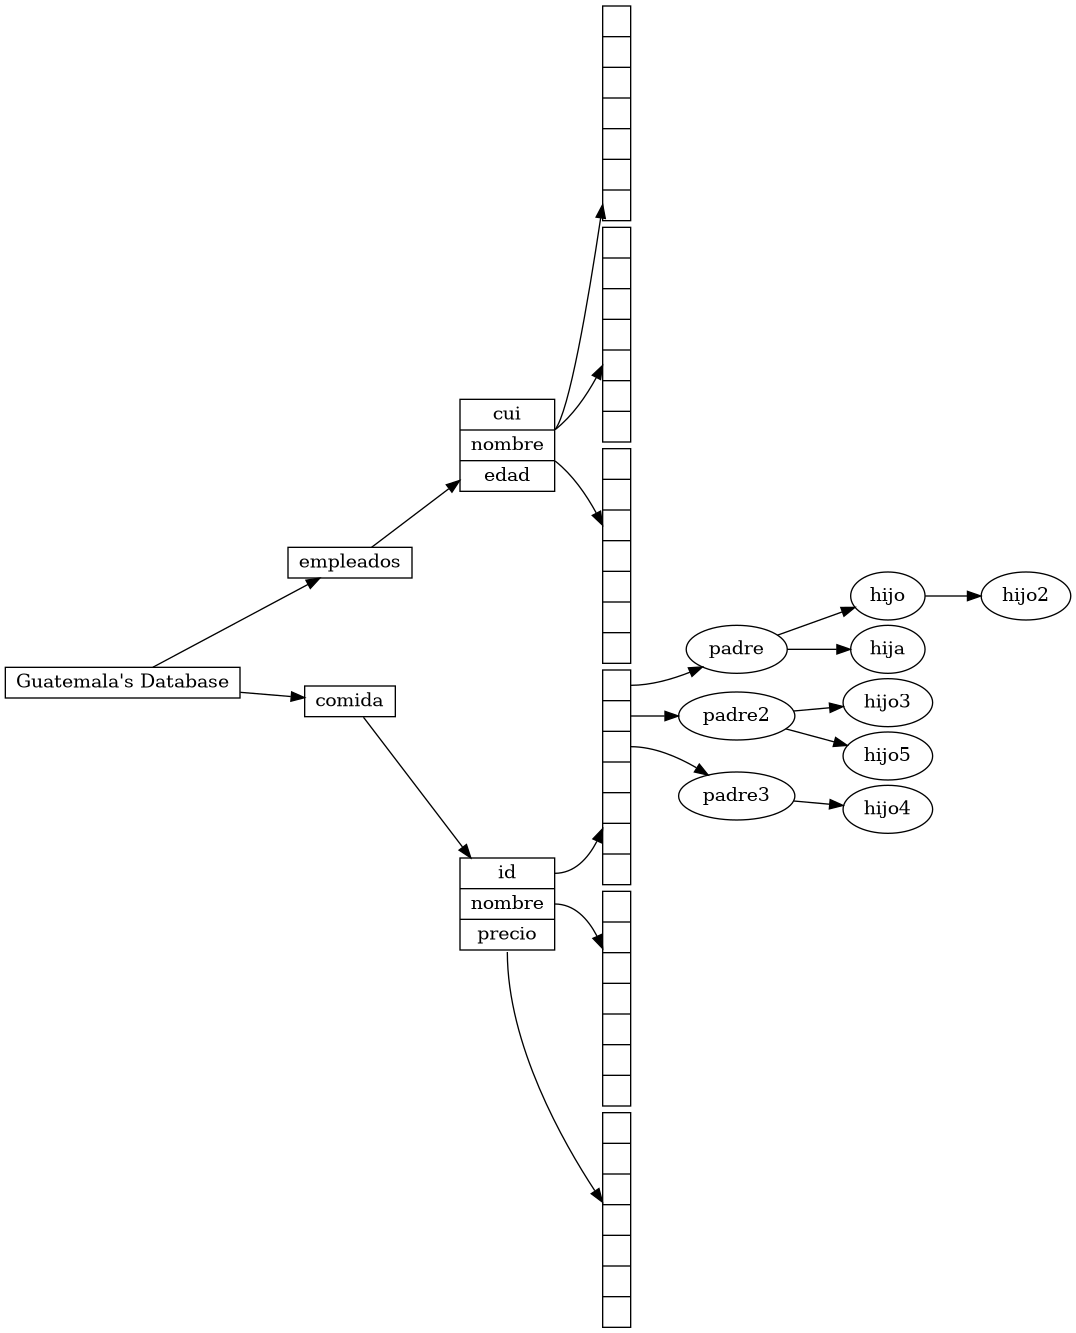
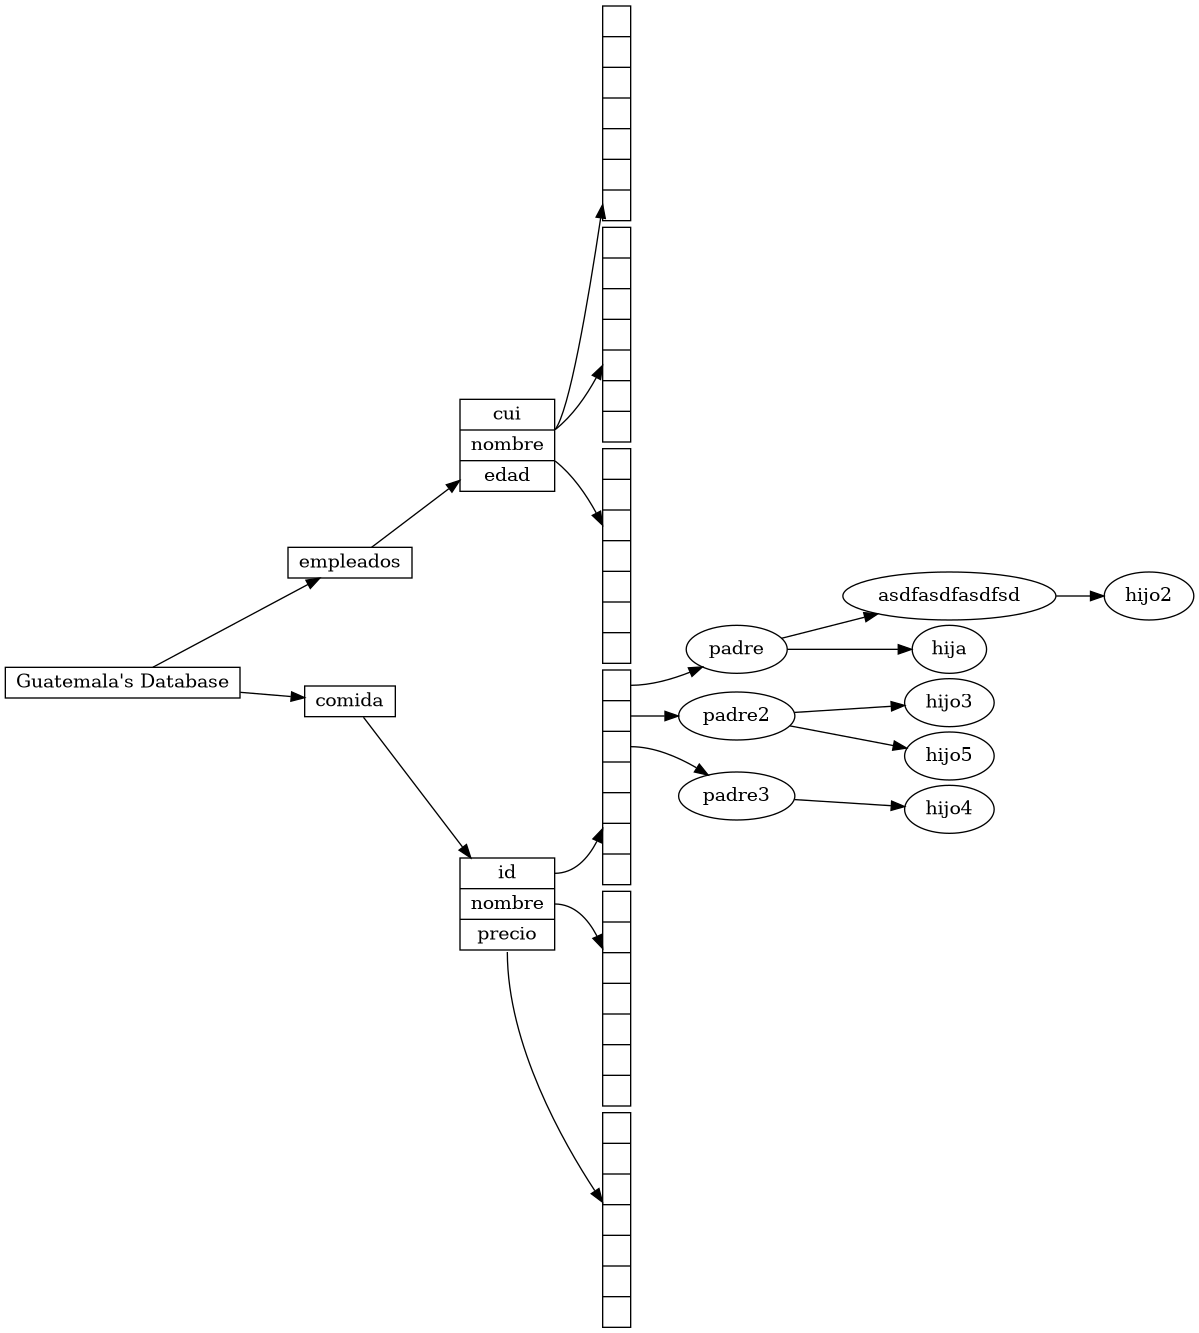
update: escrtura archivo graphviz

diff --git a/Columna.cpp b/Columna.cpp
@@ -85,8 +85,8 @@ void Columna::limpiarTodo(){
 }
 
 void Columna::limpiarListaDatos(){
-    while(listDatos && listDatos->getSig()){
-        listDatos = listDatos->getSig();
+    while(this->listDatos && this->listDatos->getSig()){
+        this->listDatos = this->listDatos->getSig();
     }
     while(listDatos){
         ListDatos *aux = this->listDatos;
@@ -209,22 +209,22 @@ void Columna::rotarRL(AVL* &arbol){
 }
 
 void Columna::cantidadDeRegistros(int &cantidad){
-    first();
-    if(this->tablaHash) tablaHash->getAVL()->cantidadDeRegistros(cantidad);
+    this->first();
+    if(this->tablaHash) this->tablaHash->getAVL()->cantidadDeRegistros(cantidad);
     while(tablaHash->getSig()){
-        tablaHash = tablaHash->getSig();
-        tablaHash->getAVL()->cantidadDeRegistros(cantidad);
+        this->tablaHash = this->tablaHash->getSig();
+        this->tablaHash->getAVL()->cantidadDeRegistros(cantidad);
     }
-    first();
+    this->first();
 }
 
 void Columna::getDatoByNoRegistro(int noRegistro, Dato &dato, bool &encontrado){
-    first();
+    this->first();
     if(this->tablaHash){
-        tablaHash->getAVL()->getDatoByNoRegistro(noRegistro, dato, encontrado);
+        this->tablaHash->getAVL()->getDatoByNoRegistro(noRegistro, dato, encontrado);
         while(tablaHash->getSig() && (!encontrado)){
-            tablaHash = tablaHash->getSig();
-            tablaHash->getAVL()->getDatoByNoRegistro(noRegistro, dato, encontrado);
+            this->tablaHash = this->tablaHash->getSig();
+            this->tablaHash->getAVL()->getDatoByNoRegistro(noRegistro, dato, encontrado);
         }
     }else{
         cout<<"No se enconro el dato en la tabla hash."<<endl;
@@ -267,7 +267,7 @@ void Columna::first(){
 }
 
 AVL*& Columna::getAt(int indice){
-    first();
+    this->first();
     if(indice==0){
         return this->tablaHash->getAVL();
     }else{
@@ -281,8 +281,8 @@ AVL*& Columna::getAt(int indice){
 }
 
 Dato Columna::getDatoAt(int indice){
-    while(listDatos && listDatos->getAnt()){
-        listDatos = listDatos->getAnt();
+    while(this->listDatos && this->listDatos->getAnt()){
+        this->listDatos = listDatos->getAnt();
     }
     if(indice==0){
         return this->listDatos->getDato();
@@ -298,8 +298,30 @@ Dato Columna::getDatoAt(int indice){
 
     int Columna::sizeListaDatos(){
         int cantidad = 0;
-        first();
+        this->first();
         ListDatos* aux = this->listDatos;
+        if(aux) cantidad++;
+        while(aux && aux->getSig()){
+            cantidad++;
+            aux = aux->getSig();
+        }
+        return cantidad;
+    }
+
+    void Columna::escribirEstructura(string cadena, int noEstructura, int noEstructuraPadre){
+        cadena += "\n     node"+noEstructuraPadre+" -> node"+noEstructura+";";
+        cadena += "\n     node"+noEstructura+" [label=\""+this->getNombre()+"\", shape=record, height.1];";
+        noEstructuraPadre = noEstructura;
+        noEstructura++;
+        for (int i = 0; i < this->sizeArboles(); i++){
+            this->getAt(i)->escribirEstructura(cadena, noEstructura, noEstructuraPadre);
+        }
+    }
+
+    void Columna::sizeArboles(){
+        int cantidad = 0;
+        this->first();
+        ListAVL* aux = this->tablaHash;
         if(aux) cantidad++;
         while(aux && aux->getSig()){
             cantidad++;

diff --git a/Tabla.cpp b/Tabla.cpp
@@ -83,7 +83,7 @@ using namespace std;
         }else{
             for (int i = 0; i < indice; i++){
                 if(this->columnas->getSig()){
-                    this->columnas = columnas->getSig();
+                    this->columnas = this->columnas->getSig();
                 }
             }
             return this->columnas;
@@ -170,5 +170,15 @@ using namespace std;
                 //hay que limpiar la lista de datos que tenemos y proceder con la siguiente columna
                 this->getAt(i)->limpiarListaDatos();
             }
+        }
+    }
+
+    void Tabla::escribirEstructura(string &cadena, int &noEstructura, int noEstructuraPadre){
+        cadena += "\n     node"+noEstructuraPadre+" -> node"+noEstructura+";";
+        cadena += "\n     node"+noEstructura+" [label=\""+this->getNombre()+"\", shape=record, height.1];";
+        noEstructuraPadre = noEstructura;
+        noEstructura++;
+        for (int i = 0; i < this->sizeColumnas(); i++){
+            this->getAt(i)->escribirEstructura(cadena, noEstructura, noEstructuraPadre);
         }
     }

diff --git a/Proyecto_2.cpp b/Proyecto_2.cpp
@@ -183,6 +183,17 @@ void insertarDatos(){
 }
 
 void verGrafico(){
+    int noEstructura = 0;
+    int noEstructuraPadre = 0;
+    string cadena = "digraph G {"
+                   +"\n     nodesep=.1;"
+                   +"\n     rankdir=LR;"
+                   +"\n     node"+noEstructuraPadre+" [label=\"Guatemala's Database\", shape=record, height=.1];";
+    noEstructura++;
+    for (int i = 0; i < sizeTablas(); i++){
+        getAt(i)->escribirEstructura(cadena, noEstructura, noEstructuraPadre);
+    }
+    cadena += "\n}";
     
 }
 
@@ -256,4 +267,16 @@ void agregarTabla(Tabla *&Tabla){
         tablas->setSig(Tabla);
         tablas = Tabla;
     }
+}
+
+void sizeTablas(){
+    int cantidad = 0;
+    first();
+    Tabla *aux = tablas;
+    if(aux) cantidad++;
+    while(aux && aux->getSig()){
+        cantidad++;
+        aux = aux->getSig();
+    }
+    return cantidad;
 }

diff --git a/Dato.cpp b/Dato.cpp
@@ -44,6 +44,31 @@ void Dato::setDatoString(char valor[]){
     strcpy(this->datoString, valor);
 }
 
+void Dato::getCadenaDato(){
+    string valor;
+    switch(this->tipo){
+        case 1:{
+            valor = this->datoEntero;
+            break;
+        }
+        case 2:{
+            valor = this->datoFloat;
+            break;
+        }
+        case 3:{
+            for (int i = 0; i < strlen(this->getDatoString()); i++){
+                valor += this->datoString[i];
+            }
+            break;
+        }
+        case 4:{
+            valor = this->datoChar;
+            break;
+        }
+    }
+    return valor;
+}
+
 int Dato::getValorNumerico(){
     int valor = 0;
     switch(this->tipo){

diff --git a/AVL.cpp b/AVL.cpp
@@ -125,3 +125,12 @@ void AVL::agregarDato(ListDatos* &listDatos, Dato dato){
         listDatos = nuevoDato;
     }
 }
+
+void AVL::escribirEstructura(string &cadena, int &noEstructura, int noEstructuraPadre){
+    cadena += "\n     node"+noEstructuraPadre+" -> node"+noEstructura+";";
+    cadena += "\n     node"+noEstructura+" [label=\""+this->getDato().getCadenaDato()+"\"];";
+    noEstructuraPadre = noEstructura;
+    noEstructura++;
+    if(this->getDer()) this->getDer()->escribirEstructura(cadena, noEstructura, noEstructuraPadre);
+    if(this->getIzq()) this->getIzq()->escribirEstructura(cadena, noEstructura, noEstructuraPadre);
+}

diff --git a/Columna.h b/Columna.h
@@ -94,4 +94,7 @@ class Columna{
 
         //metodo que nos retorna el numero de registro de un dato 
         void getNoRegistroByDato(int &, Dato);
+
+        //metodo para escribir en una cadena la estructura de la columna
+        void escribirEstructura(string &, int &, int);
 };

diff --git a/Tabla.h b/Tabla.h
@@ -55,4 +55,7 @@ class Tabla{
 
         //Inserta el dato en la columna correspondiente
         void insertar(int, Dato);
+
+        //Escribre en una cadena la estructura correspondiente de la tabla
+        void escribirEstructura(string&, int&, int);
 };

diff --git a/Dato.h b/Dato.h
@@ -22,6 +22,7 @@ class Dato{
         int getTipoDato();
         void setTipoDato(int);
         
+        string getCadenaDato();
         int getDatoEntero();
         float getDatoFlotante();
         char* getDatoString();

diff --git a/AVL.h b/AVL.h
@@ -50,4 +50,6 @@ class AVL{
 
         //agrega el dato enviado de parametro a la lista enviada de parametro
         void agregarDato(ListDatos* &, Dato);
+
+        void escribirEstructura(string &, int&, int);
 };
